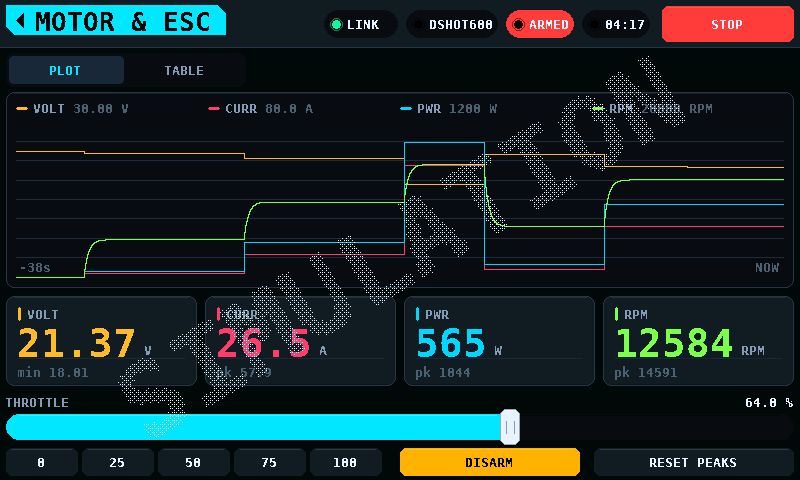
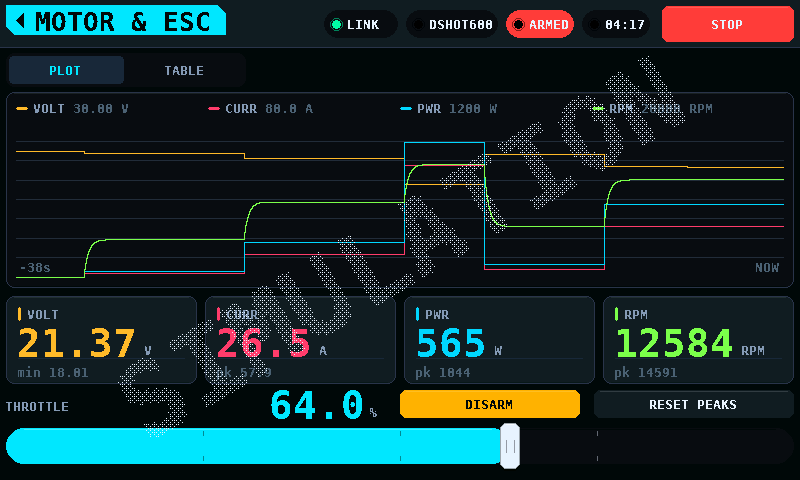
The throttle takes the band the presets were wasting
A row of 0/25/50/75/100 buttons sat under the track, duplicating the one
control beside them and spending a band of screen to do it.  They go.

What they marked does not.  The quarters are ticks cut into both edges
of the track, which cost no tap target and no row, and stay readable
while the throttle is moving -- which five buttons never did.  They
darken over the fill and lighten over the trough, because a single
colour loses half the scale at every setting.

The band pays for a track half again as tall and a readout set in the
same numeral face as the four readings above it, because the throttle is
a reading too, and the one the operator's hand is on.  ARM and RESET
PEAKS move up beside it; neither was a throttle preset, and DISARM is
the control this screen exists to keep reachable.

The slider keeps its preset support.  Nothing uses it now, but it is
tested on its own and the servo screen will want centre and endpoints.

Costs slightly less than before: a sample frame goes from 10,767 to
10,653 and chrome from 30,242 to 30,191, five buttons being more pixels
than a taller bar.

Changed region(s): [[0.0, 0.7812, 1.0, 1.0]]

diff --git a/shared/ui/motor_screen.c b/shared/ui/motor_screen.c
@@ -26,12 +26,20 @@
 #define CARD_Y    44
 #define CARD_H    196
 #define HERO_Y    248
-#define HERO_H    90
-#define LABEL_Y   346
-#define CTRL_Y    366
-#define TRACK_H   26
-#define PRESET_Y  400
-#define PRESET_H  28
+#define HERO_H    88
+/*
+ * The throttle owns the bottom of the screen now.
+ *
+ * A row of 0/25/50/75/100 buttons used to sit under the track, duplicating
+ * the one control beside them and taking a band of screen to do it.  The
+ * quarters they marked are ticks on the track itself, and the band they cost
+ * pays for a track half again as tall and a readout you can see from across
+ * a bench.
+ */
+#define ROW_Y     342                  /* the readout, ARM and RESET share it */
+#define ROW_H     30
+#define CTRL_Y    380
+#define TRACK_H   36
 
 /* The scale rails live inside the plot card now, as its left gutter.  Loose
  * on the background they were a 26px strip of coloured stripes butted against
@@ -69,8 +77,6 @@ static const char *const k_extreme[S_COUNT] = { "min", "pk", "pk", "pk" };
  */
 #define SAMPLE_HZ 20.0f
 
-static const float k_presets[] = { 0.0f, 25.0f, 50.0f, 75.0f, 100.0f };
-static const char *const k_preset_labels[] = { "0", "25", "50", "75", "100" };
 static const char *const k_tab_labels[] = { "PLOT", "TABLE" };
 
 static struct {
@@ -130,11 +136,10 @@ static void reset(void)
 
     const gfx_rect_t track = { PAD, CTRL_Y, W - 2 * PAD, TRACK_H };
     ui_slider_init(&s.slider, track, 0.0f, 100.0f, 0);
-    ui_slider_set_presets(&s.slider, k_presets, k_preset_labels, 5,
-                          (gfx_rect_t){ PAD, PRESET_Y, 380, PRESET_H });
+    ui_slider_set_ticks(&s.slider, 4);   /* the quarters the buttons marked */
 
-    s.arm_rect   = (gfx_rect_t){ 400, PRESET_Y, 180, PRESET_H };
-    s.reset_rect = (gfx_rect_t){ 594, PRESET_Y, 200, PRESET_H };
+    s.arm_rect   = (gfx_rect_t){ 400, ROW_Y, 180, (int16_t)(ROW_H - 2) };
+    s.reset_rect = (gfx_rect_t){ 594, ROW_Y, 200, (int16_t)(ROW_H - 2) };
     bind_colours();
 }
 
@@ -375,20 +380,26 @@ static void render(gfx_canvas_t *c, int buffer_index)
     }
     s.drawn_ctrl[buf] = s.ctrl_rev;
 
-    gfx_fill_rect(c, 0, LABEL_Y, W, H - LABEL_Y, ui_theme_color(UI_C_BG));
+    gfx_fill_rect(c, 0, ROW_Y, W, H - ROW_Y, ui_theme_color(UI_C_BG));
 
     /*
      * The number moves off the track and onto its own line.  Printed over a
      * full-width bar it sat on whatever colour the fill happened to reach,
      * and at high throttle that was its own accent.
      */
-    gfx_text(c, PAD, LABEL_Y, "THROTTLE", &gfx_font_8x16,
+    gfx_text(c, PAD, ROW_Y + 8, "THROTTLE", &gfx_font_8x16,
              ui_theme_color(UI_C_TEXT_DIM), 1);
+
+    /* Set in the numeral face the readings above use, because the throttle is
+     * a reading too -- and the one the operator's hand is on. */
     char pct[16];
-    snprintf(pct, sizeof(pct), "%.1f %%", (double)s.slider.value);
-    gfx_text_in(c, (gfx_rect_t){ (int16_t)(W - PAD - 200), LABEL_Y, 200, 16 },
-                pct, &gfx_font_8x16, ui_theme_color(UI_C_TEXT), 1,
-                GFX_ALIGN_RIGHT);
+    snprintf(pct, sizeof(pct), "%.1f", (double)s.slider.value);
+    const int pw = gfx_text_width(UI_FONT_NUM, pct, 1);
+    const int px = 386 - 20 - pw;
+    gfx_text(c, px, ROW_Y, pct, UI_FONT_NUM,
+             ui_theme_color(UI_C_ACCENT), 1);
+    gfx_text(c, 386 - 16, ROW_Y + 14, "%", &gfx_font_8x16,
+             ui_theme_color(UI_C_TEXT_DIM), 1);
 
     ui_slider_render(&s.slider, c);
 

diff --git a/shared/ui/ui_slider.c b/shared/ui/ui_slider.c
@@ -26,6 +26,13 @@ void ui_slider_init(ui_slider_t *s, gfx_rect_t track, float min, float max,
     s->pressed_preset = -1;
 }
 
+void ui_slider_set_ticks(ui_slider_t *s, int n)
+{
+    if (s != NULL && n >= 0) {
+        s->ticks = n;
+    }
+}
+
 void ui_slider_set_presets(ui_slider_t *s, const float *values,
                            const char *const *labels, int count,
                            gfx_rect_t row)
@@ -156,6 +163,27 @@ void ui_slider_render(const ui_slider_t *s, gfx_canvas_t *c)
                             rad, s->color);
         gfx_hline(c, s->track.x + rad, s->track.y + 1, filled - 2 * rad,
                   gfx_lerp(s->color, GFX_WHITE, 70));
+    }
+
+    /*
+     * Scale divisions, cut into both edges rather than ruled across.
+     *
+     * These carry what the row of preset buttons underneath used to: where a
+     * quarter, a half and three quarters are.  As marks they cost no tap
+     * target and no row of screen, and they stay readable while the throttle
+     * is moving, which five buttons never did.
+     */
+    for (int t = 1; s->ticks > 0 && t < s->ticks; ++t) {
+        const int tx = s->track.x + (int)((float)s->track.w
+                                          * (float)t / (float)s->ticks + 0.5f);
+        /* Over the fill it has to darken and over the trough it has to
+         * lighten, or half the scale disappears at every throttle setting. */
+        const gfx_color_t tc = (tx < s->track.x + filled)
+            ? gfx_lerp(s->color, GFX_BLACK, 105)
+            : gfx_lerp(ui_theme_color(UI_C_PANEL_SUNK),
+                       ui_theme_color(UI_C_TEXT), 105);
+        gfx_vline(c, tx, s->track.y + 3, 5, tc);
+        gfx_vline(c, tx, s->track.y + s->track.h - 8, 5, tc);
     }
 
     /*

diff --git a/shared/ui/include/ui_slider.h b/shared/ui/include/ui_slider.h
@@ -41,6 +41,7 @@ typedef struct {
     float      preset_value[UI_SLIDER_MAX_PRESETS];
     const char *preset_label[UI_SLIDER_MAX_PRESETS];
     int        preset_count;
+    int        ticks;      /**< scale divisions on the track, 0 for none */
 
     float min, max, step;
     float value;
@@ -55,6 +56,9 @@ typedef struct {
 void ui_slider_init(ui_slider_t *s, gfx_rect_t track, float min, float max,
                     gfx_color_t color);
 /** Presets are laid out in a row under the track. */
+/** Draw @p n scale divisions across the track.  0 turns them off. */
+void ui_slider_set_ticks(ui_slider_t *s, int n);
+
 void ui_slider_set_presets(ui_slider_t *s, const float *values,
                            const char *const *labels, int count,
                            gfx_rect_t row);

diff --git a/test/host/test_motor.c b/test/host/test_motor.c
@@ -50,11 +50,9 @@ static void tap(int x, int y) { ev(x, y, TOUCH_EVENT_DOWN, 1);
 
 /* Geometry mirrored from motor_screen.c; if the layout moves these move with
  * it, and the test names say what they were aiming at. */
-#define CTRL_Y   366
-#define TRACK_H  26
-#define PRESET_Y 400
-#define PRESET_H 28
-#define ROW_Y    (PRESET_Y + PRESET_H / 2)
+#define CTRL_Y   380
+#define TRACK_H  36
+#define ROW_Y    (342 + 14)   /* ARM and RESET share the readout row */
 #define ARM_X    490
 #define RESET_X  694
 #define TRACK_Y  (CTRL_Y + TRACK_H / 2)

diff --git a/README.md b/README.md
@@ -332,7 +332,7 @@ screenshots to the current render, and `frame_cost.py` holds a bench frame to
 samples currently costs **740**.
 
 <!-- coverage:start -->
-![coverage](https://img.shields.io/badge/host--test%20coverage-94.8%25-brightgreen)
+![coverage](https://img.shields.io/badge/host--test%20coverage-94.9%25-brightgreen)
 
 | File | Lines | Covered | Coverage |
 | --- | ---: | ---: | ---: |
@@ -345,13 +345,13 @@ samples currently costs **740**.
 | `shared/ui/ui_watermark.c` | 21 | 19 | 90.5% |
 | `shared/ui/ui_plot.c` | 145 | 134 | 92.4% |
 | `shared/ui/ui_hero.c` | 24 | 23 | 95.8% |
-| `shared/ui/ui_slider.c` | 112 | 103 | 92.0% |
+| `shared/ui/ui_slider.c` | 125 | 116 | 92.8% |
 | `shared/ui/ui_tabs.c` | 57 | 50 | 87.7% |
 | `shared/ui/ui_router.c` | 128 | 124 | 96.9% |
 | `shared/ui/splash_screen.c` | 60 | 57 | 95.0% |
 | `shared/ui/overview_screen.c` | 65 | 60 | 92.3% |
 | `shared/ui/stub_screen.c` | 45 | 40 | 88.9% |
-| `shared/ui/motor_screen.c` | 170 | 164 | 96.5% |
+| `shared/ui/motor_screen.c` | 173 | 167 | 96.5% |
 | `shared/ui/log_viewer_screen.c` | 681 | 621 | 91.2% |
 | `shared/ui/settings_screen.c` | 241 | 228 | 94.6% |
 | `shared/settings/settings.c` | 131 | 125 | 95.4% |
@@ -378,7 +378,7 @@ samples currently costs **740**.
 | `shared/bench/throttle.c` | 53 | 45 | 84.9% |
 | `shared/bench/telemetry_sim.c` | 47 | 44 | 93.6% |
 | `shared/bench/log_writer.c` | 43 | 40 | 93.0% |
-| **total** | **5441** | **5160** | **94.8%** |
+| **total** | **5457** | **5176** | **94.9%** |
 
 _Generated by `tools/coverage.py`; CI runs `--check` and fails on drift._
 <!-- coverage:end -->

diff --git a/docs/Performance.md b/docs/Performance.md
@@ -23,11 +23,11 @@ panel 39.0 Hz, ~39 MB/s effective -> 976 KiB of traffic per panel frame
 
 mode       lines/frame     traffic   est. ms  est. fps
 -------------------------------------------------------
-frame           10,767     1346 KiB     35.3      19.5
+frame           10,653     1332 KiB     35.0      19.5
 frame-idle          743       93 KiB      2.4      39.0
-sim             11,522     1440 KiB     37.8      19.5
-chrome          30,268     3784 KiB     99.3       9.8
-overview           819      102 KiB      2.7      39.0
+sim             11,408     1426 KiB     37.4      19.5
+chrome          30,191     3774 KiB     99.1       9.8
+overview           818      102 KiB      2.7      39.0
 clear           12,006     1501 KiB     39.4      19.5
 vlines           8,160     1020 KiB     26.8      19.5
 hlines               0        0 KiB      0.0      39.0
